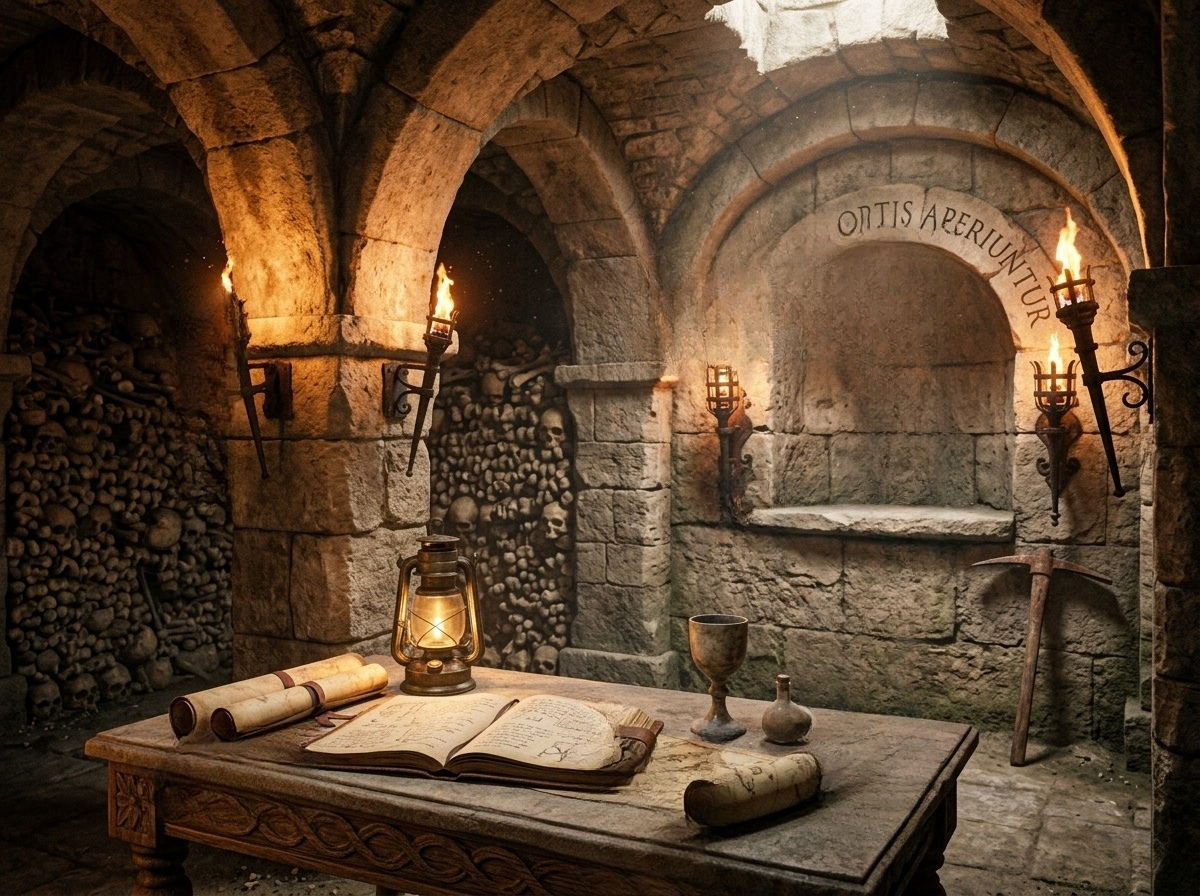
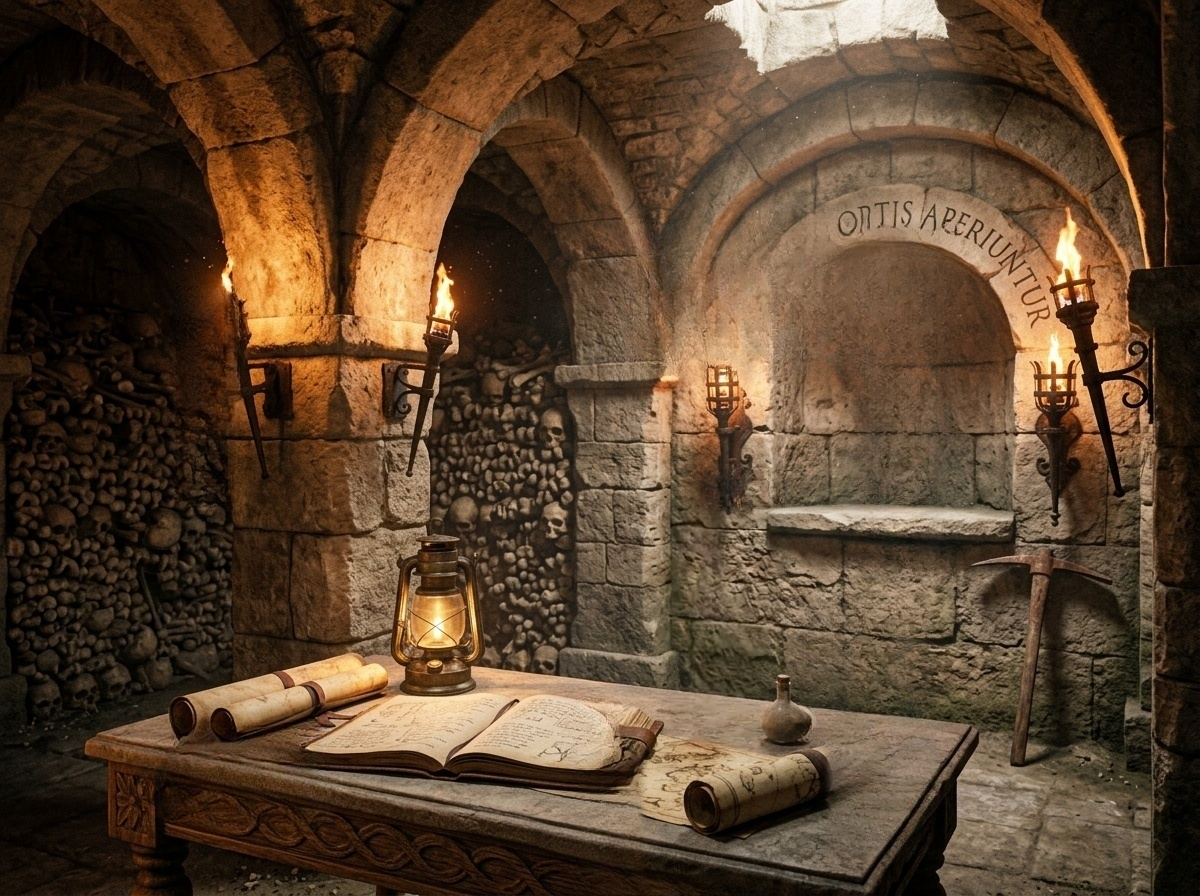
fix(level2): replace subtle map tie with prominent stolen stone chalice clue

Changed region(s): [[0.5242, 0.6875, 0.6475, 0.9688], [0.5858, 0.5625, 0.6475, 0.6562], [0.6475, 0.8438, 0.7092, 0.9062]]

diff --git a/src/data/levelRegistry.ts b/src/data/levelRegistry.ts
@@ -159,7 +159,7 @@ export function generateAll120Levels(): Level[] {
 
     // Realistic masterwork photographs for all levels in Stages 1 to 12
     const imageA = isLevelTwo
-      ? '/stage2_crypt_A.jpg?v=5'
+      ? '/stage2_crypt_A.jpg?v=6'
       : isLevelThree
       ? '/levels/stage1_lvl3_A.jpg'
       : isLevelFour
@@ -442,7 +442,7 @@ export function generateAll120Levels(): Level[] {
       ? '/stage12_paititi_A.jpg'
       : generateStageScene(stageNumber, levelNumberInStage, 'A');
     const imageB = isLevelTwo
-      ? '/stage2_crypt_B.jpg?v=5'
+      ? '/stage2_crypt_B.jpg?v=6'
       : isLevelThree
       ? '/levels/stage1_lvl3_B.jpg'
       : isLevelFour
@@ -788,8 +788,8 @@ export function generateAll120Levels(): Level[] {
       diffsForLevel = [
         {
           id: `lvl${id}_d1`,
-          x: 75.24,
-          y: 52.80,
+          x: 75.34,
+          y: 52.69,
           radius: 9.0,
           clueType: 'stolen_relic',
           name: "Il Teschio nella Nicchia di Pietra",
@@ -797,8 +797,8 @@ export function generateAll120Levels(): Level[] {
         },
         {
           id: `lvl${id}_d2`,
-          x: 61.73,
-          y: 27.67,
+          x: 61.63,
+          y: 27.48,
           radius: 8.5,
           clueType: 'dark_seal',
           name: "L'Iscrizione Latina 'SECRETA' sull'Arco",
@@ -806,8 +806,8 @@ export function generateAll120Levels(): Level[] {
         },
         {
           id: `lvl${id}_d3`,
-          x: 18.23,
-          y: 40.79,
+          x: 18.01,
+          y: 41.23,
           radius: 9.5,
           clueType: 'sabotage',
           name: "La Torcia a Gabbia della Colonna",
@@ -815,17 +815,17 @@ export function generateAll120Levels(): Level[] {
         },
         {
           id: `lvl${id}_d4`,
-          x: 71.39,
-          y: 82.24,
+          x: 71.56,
+          y: 81.78,
           radius: 8.5,
           clueType: 'stolen_relic',
           name: "Le Boccette Alchemiche sul Tavolo",
-          loreClue: "Due preziose fiale di reagenti e tinture alchemiche con tappo in sughero sono state rubate dal ripiano in pietra accanto al calice."
+          loreClue: "Tre preziose fiale di reagenti e tinture alchemiche con tappo in sughero sono state rubate dal ripiano in pietra accanto al calice."
         },
         {
           id: `lvl${id}_d5`,
-          x: 51.59,
-          y: 84.90,
+          x: 50.67,
+          y: 84.02,
           radius: 8.5,
           clueType: 'torn_evidence',
           name: "Il Fermaglio in Cuoio del Tomo Medievale",
@@ -833,12 +833,12 @@ export function generateAll120Levels(): Level[] {
         },
         {
           id: `lvl${id}_d6`,
-          x: 59.02,
-          y: 87.36,
-          radius: 7.5,
-          clueType: 'torn_evidence',
-          name: "Il Legaccio della Mappa Arrotolata",
-          loreClue: "La fascetta in cuoio brunito che sigillava il rotolo cartografico in primo piano è stata asportata, lasciando la pergamena srotolata."
+          x: 61.87,
+          y: 70.57,
+          radius: 12.0,
+          clueType: 'stolen_relic',
+          name: "Il Calice Sacro in Pietra",
+          loreClue: "L'antico calice cerimoniale in pietra arenaria che troneggiava al centro del tavolo è stato asportato per i suoi simboli esoterici."
         },
       ];
     } else if (isLevelThree) {
